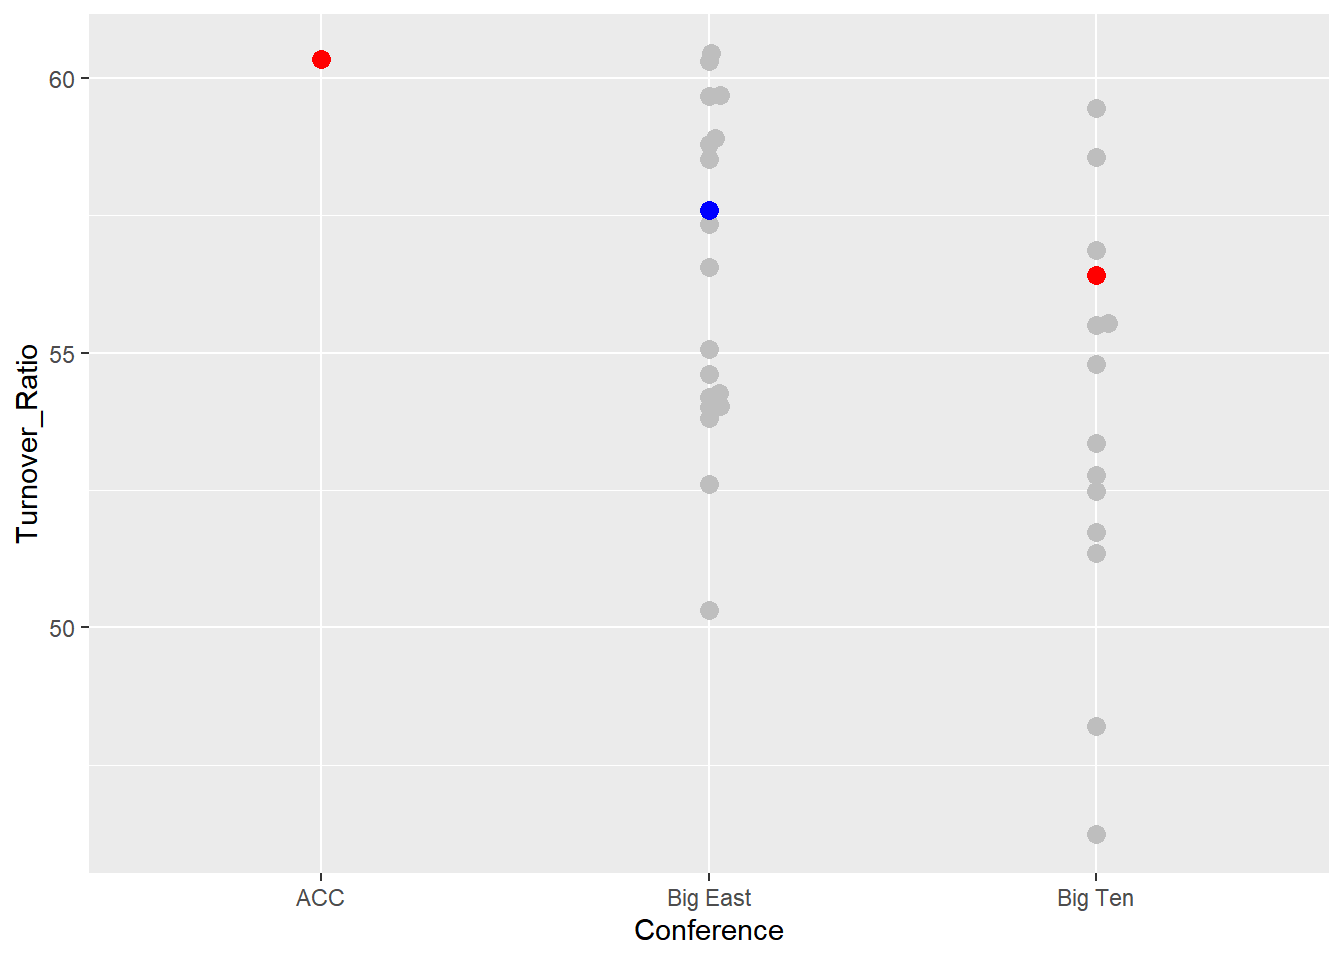
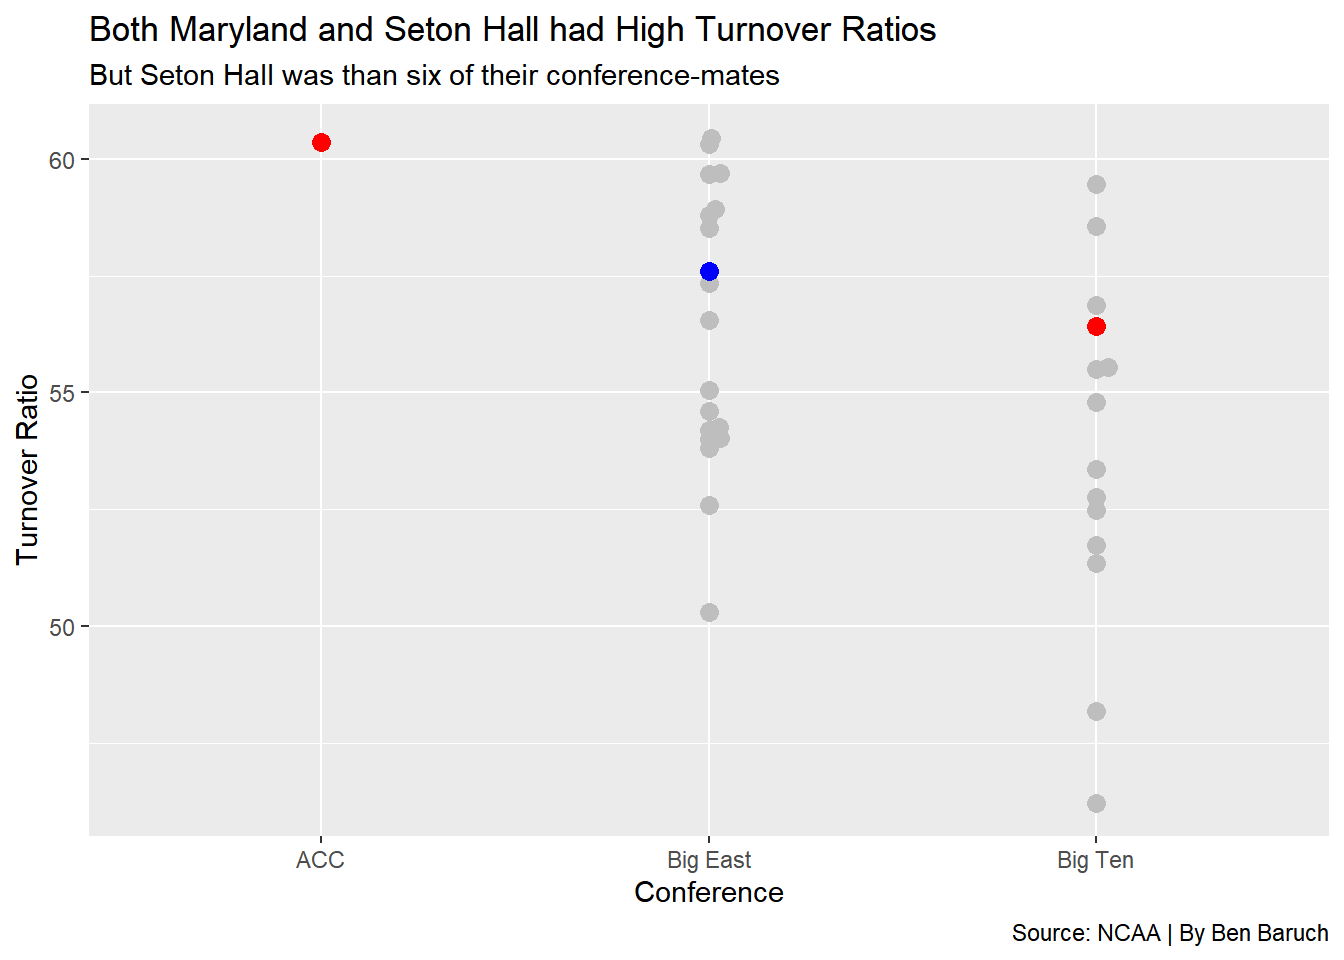
Titles and labs for Willard

diff --git a/sportsblog/2022/11/15/what-defines-a-kevin-willard-team/index.html b/sportsblog/2022/11/15/what-defines-a-kevin-willard-team/index.html
@@ -62,7 +62,7 @@
 
   <article class="article">
     
-    <span class="article-duration">8 min read</span>
+    <span class="article-duration">9 min read</span>
     
 
     <h1 class="article-title">What Defines a Kevin Willard Team?</h1>
@@ -119,6 +119,25 @@ Maryland_SH &lt;- logs %&gt;% filter(TeamFull == &quot;Maryland Terrapins&quot; 
   pct_3 = Opposing_3s / Limiting_Shots
   ) %&gt;% arrange(desc(Total_Points_Against))
 
+Maryland_total &lt;- logs %&gt;% filter(TeamFull == &quot;Maryland Terrapins&quot;) %&gt;% group_by(TeamFull) %&gt;% summarize(
+  Field_Goal_att = sum(TeamFGA),
+  FG_pct = mean(TeamFGPCT),
+  Personal_Fouls = sum(TeamPersonalFouls),
+  Turnovers = sum(TeamTurnovers),
+  Opposing_3s = sum(Opponent3PA),
+  Opposing_FTs = sum(OpponentFTA),
+  Boxing_Out = sum(OpponentOffRebounds),
+  Forcing_Turnovers = sum(OpponentTurnovers),
+  Blocks = sum(TeamBlocks),
+  Limiting_Shots = sum(OpponentFGA),
+  Total_Points_Against = sum(OpponentScore),
+  Total_Points_For = sum(TeamScore),
+  Turnover_Ratio = mean((TeamTurnovers*100/TeamFGA+(TeamFTA*0.44)+TeamAssists+TeamTurnovers))
+  ) %&gt;% mutate(
+  pct_3 = Opposing_3s / Limiting_Shots
+  ) %&gt;% arrange(desc(Total_Points_Against))
+
+
 Maryland &lt;- logs %&gt;% filter(TeamFull == &quot;Maryland Terrapins&quot;) %&gt;% group_by(TeamFull, Conference) %&gt;% summarize(
   Field_Goal_att = sum(TeamFGA),
   FG_pct = mean(TeamFGPCT),
@@ -162,9 +181,10 @@ Seton_Hall &lt;- logs %&gt;% filter(TeamFull == &quot;Seton Hall Pirates&quot;) 
 <pre class="r"><code>Turnovers_filter &lt;- Overall_rankings %&gt;% filter(Turnovers &gt; 2000 &amp; Forcing_Turnovers &gt; 2000)
 ggplot() + 
   geom_point(data=Turnovers_filter, aes(x=Turnovers, y=Forcing_Turnovers)) +
-  geom_point(data=Maryland, aes(x=Turnovers, y=Forcing_Turnovers), color = &quot;red&quot;, size = 3) +
+  geom_point(data=Maryland_total, aes(x=Turnovers, y=Forcing_Turnovers), color = &quot;red&quot;, size = 3) +
   geom_point(data=Seton_Hall, aes(x=Turnovers, y=Forcing_Turnovers), color = &quot;blue&quot;, size = 3) +
-  geom_smooth(data=Turnovers_filter, aes(x=Turnovers, y=Forcing_Turnovers), method=&quot;lm&quot;)</code></pre>
+  geom_smooth(data=Turnovers_filter, aes(x=Turnovers, y=Forcing_Turnovers), method=&quot;lm&quot;) + 
+  labs(title=&quot;Seton Hall Forced more Turnovers than UMD&quot;, subtitle=&quot;The Terps turned the ball over just as much, but couldn&#39;t get their opponents to make mistakes&quot;, x=&quot;Turnovers&quot;, y=&quot;Opponent Turnovers&quot;, caption=&quot;Source: NCAA | By Ben Baruch&quot;) </code></pre>
 <p><img src="https://BenBaruch29.github.io/sportsblog/2022/11/15/what-defines-a-kevin-willard-team/index_files/figure-html/unnamed-chunk-3-1.png" width="672" /></p>
 <p>Seton Hall falls much closer to NCAA average when it comes to turnover differential. Maryland, on the other hand, has turned the ball over far more than their opponents.</p>
 <p>The media described Willard as aggressive on defense. One way that could manifest on the stat sheet is opponent turnovers.</p>
@@ -186,7 +206,8 @@ ggplot() +
       x=reorder(TeamFull, `Turnover_Differential`), 
       weight=`Turnover_Differential`
       )
-  ) + coord_flip()</code></pre>
+  ) + 
+  labs(title=&quot;Seton Hall Forced more Turnovers than UMD&quot;, subtitle=&quot;The Pirates were one of the better Big East teams in the last 10 years&quot;, x=&quot;Turnover Differential&quot;, y=&quot;Team&quot;, caption=&quot;Source: NCAA | By Ben Baruch&quot;) + coord_flip() </code></pre>
 <p><img src="https://BenBaruch29.github.io/sportsblog/2022/11/15/what-defines-a-kevin-willard-team/index_files/figure-html/unnamed-chunk-4-1.png" width="672" /></p>
 <pre class="r"><code>Big_Ten_Turnovers &lt;- logs %&gt;% group_by(TeamFull) %&gt;% filter(Season %in% Maryland_Big_Ten, Conference == &quot;Big Ten&quot;) %&gt;% summarize(
   Turnovers = sum(TeamTurnovers),
@@ -202,13 +223,15 @@ ggplot() +
       x=reorder(TeamFull, `Turnover_Differential`), 
       weight=`Turnover_Differential`
       )
-  ) + coord_flip()</code></pre>
+  ) +  
+  labs(title=&quot;Maryland&#39;s Awful Turnover Differential&quot;, subtitle=&quot;The Terps&#39; never fully recovered from their ACC struggles&quot;, x=&quot;Turnover Differential&quot;, y=&quot;Team&quot;, caption=&quot;Source: NCAA | By Ben Baruch&quot;) + coord_flip()</code></pre>
 <p><img src="https://BenBaruch29.github.io/sportsblog/2022/11/15/what-defines-a-kevin-willard-team/index_files/figure-html/unnamed-chunk-4-2.png" width="672" /></p>
 <pre class="r"><code>Big_Conferences &lt;- Overall_rankings %&gt;% filter(Conference == &quot;Big Ten&quot; | Conference == &quot;Big East&quot;)
 
 ggplot() + geom_beeswarm(data=Big_Conferences, aes(x=Conference, y=Turnover_Ratio), color=&quot;grey&quot;, size = 3) +
   geom_beeswarm(data=Maryland, aes(x=Conference, y=Turnover_Ratio), color = &quot;red&quot;, size = 3) + 
-  geom_beeswarm(data=Seton_Hall, aes(x=Conference, y=Turnover_Ratio), color = &quot;blue&quot;, size = 3) </code></pre>
+  geom_beeswarm(data=Seton_Hall, aes(x=Conference, y=Turnover_Ratio), color = &quot;blue&quot;, size = 3) +  
+  labs(title=&quot;Both Maryland and Seton Hall had High Turnover Ratios&quot;, subtitle=&quot;But Seton Hall was than six of their conference-mates&quot;, x=&quot;Conference&quot;, y=&quot;Turnover Ratio&quot;, caption=&quot;Source: NCAA | By Ben Baruch&quot;)</code></pre>
 <pre><code>## Warning in f(...): The default behavior of beeswarm has changed in version
 ## 0.6.0. In versions &lt;0.6.0, this plot would have been dodged on the y-axis. In
 ## versions &gt;=0.6.0, grouponX=FALSE must be explicitly set to group on y-axis.
@@ -238,7 +261,8 @@ ggplot() +
   geom_beeswarm(data=Big_East_3PA,aes(x=Conference, y=pct_3), color = &quot;grey&quot;, size = 3) +
   geom_beeswarm(data=Big_Ten_3PA,aes(x=Conference, y=pct_3), color = &quot;grey&quot;, size = 3) +
   geom_beeswarm(data=Maryland, aes(x=Conference, y=pct_3), color = &quot;red&quot;, size = 3) + 
-  geom_beeswarm(data=Seton_Hall, aes(x=Conference, y=pct_3), color = &quot;blue&quot;, size = 3)</code></pre>
+  geom_beeswarm(data=Seton_Hall, aes(x=Conference, y=pct_3), color = &quot;blue&quot;, size = 3) + 
+  labs(title=&quot;Seton Hall Doesn&#39;t Allow Three-Pointers&quot;, subtitle=&quot;Maryland, on the other hand, allowed a lot. They were better in the ACC though&quot;, x=&quot;Conference&quot;, y=&quot;Percentage of FGs as 3PA&quot;, caption=&quot;Source: NCAA | By Ben Baruch&quot;)</code></pre>
 <pre><code>## Warning in f(...): The default behavior of beeswarm has changed in version
 ## 0.6.0. In versions &lt;0.6.0, this plot would have been dodged on the y-axis. In
 ## versions &gt;=0.6.0, grouponX=FALSE must be explicitly set to group on y-axis.
